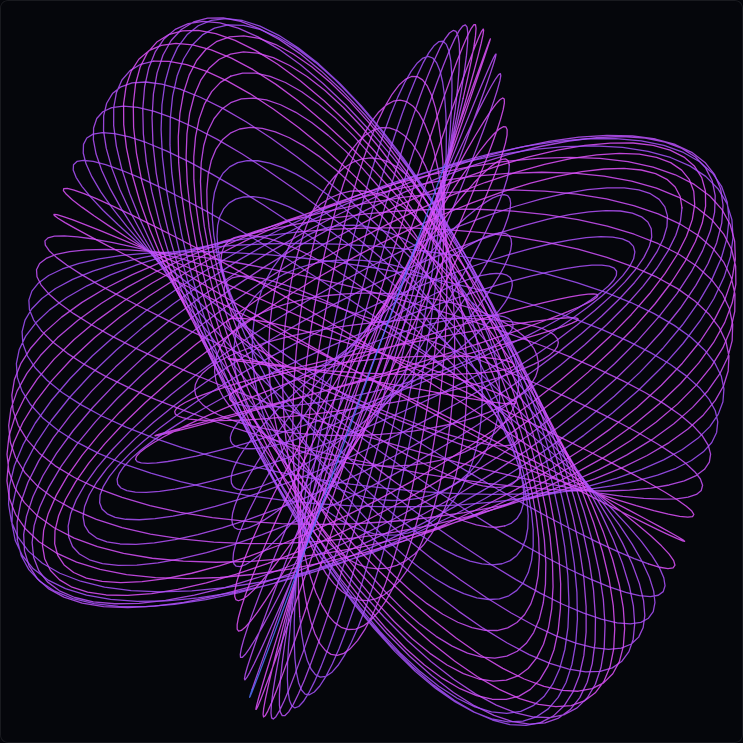
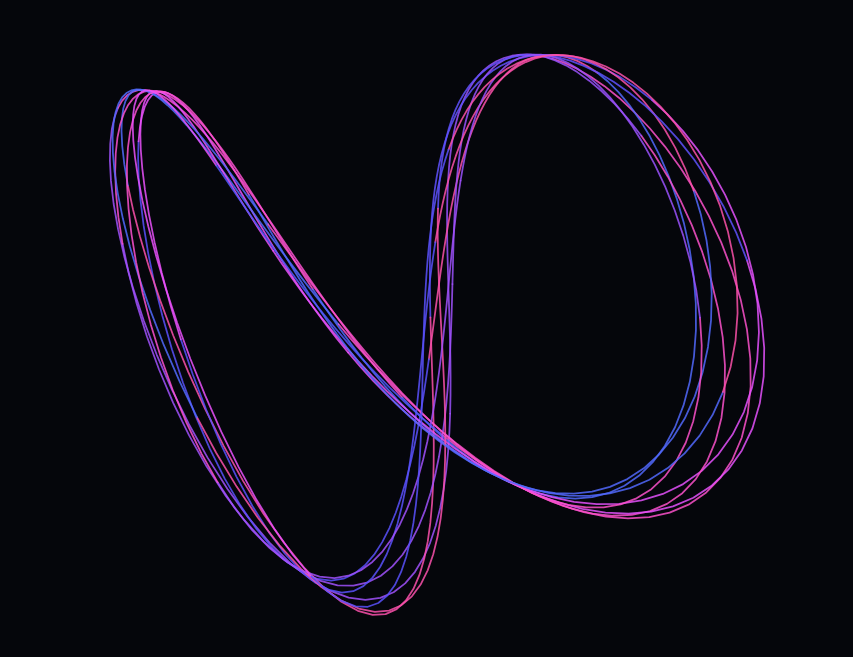
fix

diff --git a/Lissajousgraph/index.html b/Lissajousgraph/index.html
@@ -3,6 +3,8 @@
 <head>
   <meta charset="UTF-8">
   <meta name="viewport" content="width=device-width, initial-scale=1.0">
+  <link rel="icon" href="favicon.svg" type="image/svg+xml">
+
   <title>Lissajous Curves - リサジュー図形シミュレーター</title>
   
   <meta name="description" content="直交する2つの単振動が織りなすリサジュー図形の世界。平面の基本形から円運動の投影、3次元時空間、立体空間曲線までを体験できる4つのシミュレーター集。">
@@ -59,7 +61,7 @@
     }
 
     p.lead {
-      color: var(--mute);
+      color: var(--text);
       font-size: 0.85rem;
       letter-spacing: 1px;
       line-height: 1.5;
@@ -79,7 +81,7 @@
     /* レスポンシブグリッド */
     .grid {
       display: grid;
-      grid-template-columns: repeat(auto-fit, minmax(280px, 1fr));
+      grid-template-columns: repeat(auto-fill, minmax(280px, 1fr));
       gap: 20px;
       width: 100%;
       max-width: 1200px;
@@ -183,6 +185,24 @@
       background: var(--cyan);
       color: #070710;
       font-weight: bold;
+    }
+
+    /* Extras セクション */
+    .extra {
+      width: 100%;
+      max-width: 1200px;
+      margin-top: 48px;
+      padding-top: 24px;
+      border-top: 1px solid var(--border);
+    }
+
+    .extra h2 {
+      font-size: 0.85rem;
+      letter-spacing: 3px;
+      text-transform: uppercase;
+      color: var(--mute);
+      font-weight: normal;
+      margin-bottom: 16px;
     }
 
     footer {
@@ -290,7 +310,7 @@
       </div>
     </a>
 
-    <!-- 4. 3D空間曲線・完全版 (Elm + svg3D) -->
+    <!-- 4. 3D空間曲線 (Elm + svg3D) -->
     <a href="./locus/" class="card">
       <div class="thumb">
         <img class="thumb-img" src="./locus/preview.png" alt="3D Space Curve Preview" loading="lazy" />
@@ -303,32 +323,39 @@
       </div>
     </a>
 
+  </main>
+
+  <section class="extra">
+    <h2>Extras</h2>
+    <div class="grid">
+
     <!-- 5. 3Dリサジュー曲線 -->
     <a href="./3D/" class="card">
       <div class="thumb">
-        <img class="thumb-img" src="./3D/lissajous.svg" alt="3D Space Curve Preview" loading="lazy" />
+        <img class="thumb-img" src="./3D/lissajous.svg" alt="3次元リサジュー図形のプレビュー。x・y・zの3つの単振動が描く立体的な軌道" loading="lazy" />
       </div>
       <div class="content">
         <div class="tag">05 · 3D Lissajous</div>
-        <div class="title">3次元のリサジュー曲線<span>↗</span></div>
-        <div class="desc">3次元に拡張したリサジュー曲線。</div>
+        <div class="title">3次元のリサジュー図形<span>↗</span></div>
+        <div class="desc">3次元に拡張したリサジュー図形。</div>
         <div class="btn">起動する <span>▶</span></div>
       </div>
     </a>
 
-    <!-- 6. 4Dリサジュー曲線 -->
+    <!-- 6. 4Dリサジュー図形 -->
     <a href="./4D/" class="card">
       <div class="thumb">
-        <img class="thumb-img" src="./4D/4Dlissajous.png" alt="4D Space Curve Preview" loading="lazy" />
+        <img class="thumb-img" src="./4D/4DLissajous.png" alt="4次元リサジュー図形を3次元空間に投影したプレビュー" loading="lazy" />
       </div>
       <div class="content">
         <div class="tag">06 · 4D Lissajous</div>
-        <div class="title">4次元のリサジュー曲線<span>↗</span></div>
-        <div class="desc">4次元に拡張したリサジュー曲線。はたしてこの実装は正しいのか。</div>
+        <div class="title">4次元のリサジュー図形<span>↗</span></div>
+        <div class="desc">4次元に拡張したリサジュー図形。はたしてこの実装は正しいのか。</div>
         <div class="btn">起動する <span>▶</span></div>
       </div>
     </a>
-  </main>
+    </div>
+  </section>
 
   <footer>
     Lissajous Curves Portal · Responsive Interactive Suite

diff --git a/Lissajousgraph/locus/main.js b/Lissajousgraph/locus/main.js
@@ -8176,7 +8176,7 @@ var $author$project$Main$renderCurvesAndCurrent = function (model) {
 					$elm$svg$Svg$Attributes$points(
 					$author$project$Main$ptsToPolyline(spacePts)),
 					$elm$svg$Svg$Attributes$fill('none'),
-					$elm$svg$Svg$Attributes$stroke('#ffffff'),
+					$elm$svg$Svg$Attributes$stroke('#baa2d1'),
 					$elm$svg$Svg$Attributes$strokeWidth(
 					$author$project$Main$px(lw)),
 					$elm$svg$Svg$Attributes$strokeOpacity('0.9')
@@ -8946,7 +8946,7 @@ var $author$project$Main$viewTabParams = function (model) {
 				'±T長',
 				6,
 				'1',
-				'8',
+				'28',
 				'0.2',
 				model.t,
 				$author$project$Main$fmtF(model.t) + 'π',

diff --git a/Lissajousgraph/locus/index.html b/Lissajousgraph/locus/index.html
@@ -3,7 +3,7 @@
 <head>
   <meta charset="UTF-8">
   <meta name="viewport" content="width=device-width, initial-scale=1.0">
-  
+  <link rel="icon" href="../favicon.svg" type="image/svg+xml">
   <title>リサージュ曲線シミュレーター</title>
   
   <!-- ページの説明（meta description） -->

diff --git a/Lissajousgraph/base/index.html b/Lissajousgraph/base/index.html
@@ -3,6 +3,7 @@
 <head>
   <meta charset="UTF-8">
   <meta name="viewport" content="width=device-width, initial-scale=1.0">
+  <link rel="icon" href="../favicon.svg" type="image/svg+xml">
   <title>Lissajous / Harmonograph</title>
 
   <!-- ページの説明（meta description） -->

diff --git a/Lissajousgraph/3D/index.html b/Lissajousgraph/3D/index.html
@@ -3,6 +3,7 @@
 <head>
   <meta charset="UTF-8">
   <meta name="viewport" content="width=device-width, initial-scale=1.0">
+  <link rel="icon" href="favicon.svg" type="image/svg+xml">
   <title>3D Lissajous</title>
   <style>
     * { margin: 0; padding: 0; box-sizing: border-box; }

diff --git a/Lissajousgraph/4D/index.html b/Lissajousgraph/4D/index.html
@@ -3,6 +3,7 @@
 <head>
   <meta charset="UTF-8">
   <meta name="viewport" content="width=device-width, initial-scale=1.0">
+  <link rel="icon" href="favicon.svg" type="image/svg+xml">
   <title>4D Lissajous</title>
   <style>
     * { margin: 0; padding: 0; box-sizing: border-box; }

diff --git a/Lissajousgraph/curves/index.html b/Lissajousgraph/curves/index.html
@@ -3,6 +3,7 @@
 <head>
 <meta charset="utf-8">
 <meta name="viewport" content="width=device-width, initial-scale=1, viewport-fit=cover">
+<link rel="icon" href="../favicon.svg" type="image/svg+xml">
 <title>リサジュー図形の3次元可視化</title>
 <style>
 :root {

diff --git a/Lissajousgraph/circles/index.html b/Lissajousgraph/circles/index.html
@@ -3,6 +3,7 @@
 <head>
   <meta charset="UTF-8">
   <meta name="viewport" content="width=device-width, initial-scale=1.0">
+  <link rel="icon" href="../favicon.svg" type="image/svg+xml">
   
   <title>リサージュ曲線シミュレーター</title>
   
